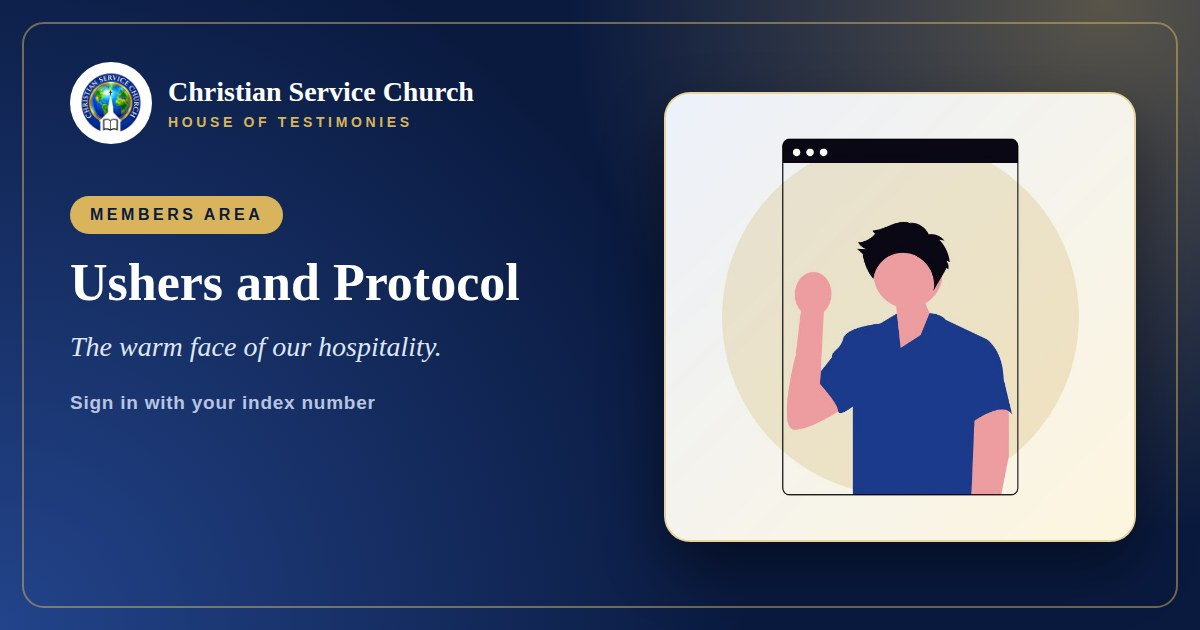
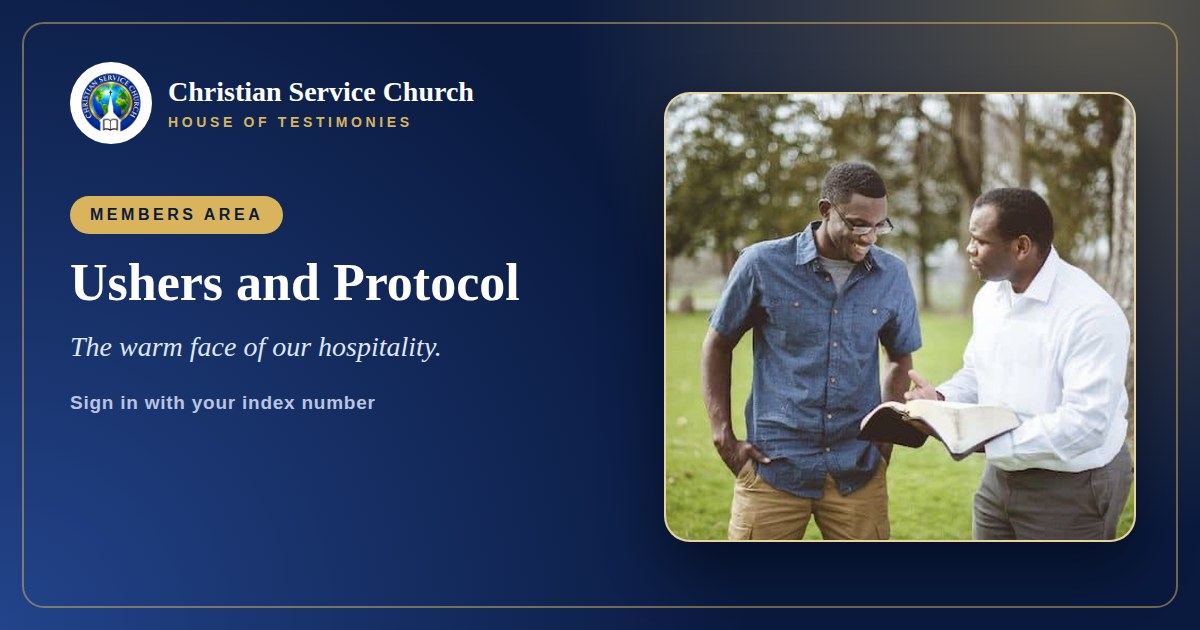
Ministries: evangelism and ushers photos, cleaner Learn more links, refreshed previews (#36)
Claude-Session: https://claude.ai/code/session_01UuPTNQzAJn2GeGrexUshJU

Changed region(s): [[0.555, 0.1508, 0.9558, 0.8746]]

diff --git a/js/supabase-public.js b/js/supabase-public.js
@@ -430,13 +430,13 @@
       body: 'Loud worship, real talk and friendships that last. Vibrant Youth is where teens and young adults find purpose, ask the hard questions and discover that following Jesus is the boldest adventure there is. Come as you are. Leave on fire.' },
     { match: /prayer/i, title: 'Prayer Department', image: 'assets/ministries/prayer-department-art.jpg',
       body: 'The engine room of the church. Our intercessors stand in the gap for every family, every service and the nation, believing God for breakthroughs, healing and answered prayers. If you need someone to pray with you, this is your family.' },
-    { match: /usher|protocol/i, title: 'Ushers and Protocol', image: 'assets/ministries/ushers-and-protocol-art.jpg',
+    { match: /usher|protocol/i, title: 'Ushers and Protocol', image: 'assets/ministries/ushers-photo.jpg',
       body: 'The first smile you see and the last goodbye you hear. Our ushers welcome every guest, keep every service in order and make sure everyone finds a seat and a home. Serving with excellence is how we say, you are welcome here.' },
     { match: /choir|ezekiel/i, title: 'Ezekiel Choir', image: 'assets/ministries/ezekiel-choir-photo.jpg',
       body: 'Voices lifted, hearts surrendered. The Ezekiel Choir leads the church into the presence of God with rich harmony, anointed songs and excellence, every Sunday and at every special service. Worship is not a performance here. It is an offering.' },
     { match: /media/i, title: 'Media Ministry', image: 'assets/ministries/media-ministry-photo.jpg',
       body: 'We carry the message further than these walls. From cameras and sound to live streaming, photos and graphics, our creative team captures every moment so that someone watching from anywhere can feel at home. Behind every screen is someone serving with a smile.' },
-    { match: /evangel/i, title: 'Evangelism Team', image: 'assets/ministries/evangelism-team-art.jpg',
+    { match: /evangel/i, title: 'Evangelism Team', image: 'assets/ministries/evangelism-photo.jpg',
       body: 'Taking the Gospel to every street. Our evangelists share the Good News through outreach, home visits and everyday conversations, leading souls to Christ and walking with them until they feel at home in God\'s family. Souls are the heartbeat of this church.' },
     { match: /virtuous|women/i, title: 'Virtuous Women of Destiny', image: 'assets/ministries/virtuous-women-photo.jpg',
       body: 'Women of grace, strength and purpose. Virtuous Women of Destiny gathers the women of the church to pray, learn the Word, encourage one another and step boldly into everything God has prepared for them. Come and be refreshed, restored and sent.' }
@@ -459,6 +459,9 @@
 
   const ministryKey = (title) => /virtuous|women/i.test(title) ? 'virtuous-women' : /child/i.test(title) ? 'children' : String(title || '').toLowerCase().replace(/[^a-z0-9]+/g, '-').replace(/^-+|-+$/g, '');
 
+  // A link typed as https://contact.html is really the church's own contact page
+  const cleanLink = (link) => String(link || '').trim().replace(/^https?:\/\/(www\.)?(contact\.html)$/i, '$2');
+
   function renderMinistries(rawItems) {
     const mount = document.querySelector('[data-supabase-ministries]');
     if (!mount) return;
@@ -471,7 +474,7 @@
       return `
       <article class="ministry-card${art ? ' ministry-card--art' : ''} reveal" data-delay="${(index % 2) + 1}" id="ministry-${esc(ministryKey(item.title))}">
         <div class="ministry-card__media"${media}></div>
-        <div class="ministry-card__body"><h3 class="ministry-card__title">${esc(item.title)}</h3><p class="ministry-card__desc">${esc(item.body || '')}</p>${ministrySite(item.title) ? `<a href="https://${ministrySite(item.title)}.christianservicechurch.org/" class="ministry-card__link">Learn more</a>` : (item.link ? `<a href="${esc(item.link)}" class="ministry-card__link">Learn More</a>` : '')}</div>
+        <div class="ministry-card__body"><h3 class="ministry-card__title">${esc(item.title)}</h3><p class="ministry-card__desc">${esc(item.body || '')}</p>${ministrySite(item.title) ? `<a href="https://${ministrySite(item.title)}.christianservicechurch.org/" class="ministry-card__link">Learn more</a>` : (cleanLink(item.link) ? `<a href="${esc(cleanLink(item.link))}" class="ministry-card__link">Learn more</a>` : '')}</div>
       </article>`;
     }).join('');
     const focus = document.body && document.body.dataset.focus;

diff --git a/csc-admin/admin.html b/csc-admin/admin.html
@@ -1563,10 +1563,10 @@ const CORE_MINISTRY_SEED = [
   { re: /child/i, title: "Children's Ministry", image: '/assets/ministries/children-photo.jpg', body: 'Where little hearts meet a big God. Through Bible stories, songs, games and loving teachers, our children learn that Jesus is real, that they are loved and that they were made on purpose. We are raising the next generation of believers, one joyful Sunday at a time.' },
   { re: /youth|vibrant/i, title: 'Vibrant Youth', image: '/assets/ministries/vibrant-youth-photo.jpg', body: 'Loud worship, real talk and friendships that last. Vibrant Youth is where teens and young adults find purpose, ask the hard questions and discover that following Jesus is the boldest adventure there is. Come as you are. Leave on fire.' },
   { re: /prayer/i, title: 'Prayer Department', image: '/assets/ministries/prayer-department-art.jpg', body: 'The engine room of the church. Our intercessors stand in the gap for every family, every service and the nation, believing God for breakthroughs, healing and answered prayers. If you need someone to pray with you, this is your family.' },
-  { re: /usher|protocol/i, title: 'Ushers and Protocol', image: '/assets/ministries/ushers-and-protocol-art.jpg', body: 'The first smile you see and the last goodbye you hear. Our ushers welcome every guest, keep every service in order and make sure everyone finds a seat and a home. Serving with excellence is how we say, you are welcome here.' },
+  { re: /usher|protocol/i, title: 'Ushers and Protocol', image: '/assets/ministries/ushers-photo.jpg', body: 'The first smile you see and the last goodbye you hear. Our ushers welcome every guest, keep every service in order and make sure everyone finds a seat and a home. Serving with excellence is how we say, you are welcome here.' },
   { re: /choir|ezekiel/i, title: 'Ezekiel Choir', image: '/assets/ministries/ezekiel-choir-photo.jpg', body: 'Voices lifted, hearts surrendered. The Ezekiel Choir leads the church into the presence of God with rich harmony, anointed songs and excellence, every Sunday and at every special service. Worship is not a performance here. It is an offering.' },
   { re: /media/i, title: 'Media Ministry', image: '/assets/ministries/media-ministry-photo.jpg', body: 'We carry the message further than these walls. From cameras and sound to live streaming, photos and graphics, our creative team captures every moment so that someone watching from anywhere can feel at home. Behind every screen is someone serving with a smile.' },
-  { re: /evangel/i, title: 'Evangelism Team', image: '/assets/ministries/evangelism-team-art.jpg', body: 'Taking the Gospel to every street. Our evangelists share the Good News through outreach, home visits and everyday conversations, leading souls to Christ and walking with them until they feel at home in God\'s family. Souls are the heartbeat of this church.' },
+  { re: /evangel/i, title: 'Evangelism Team', image: '/assets/ministries/evangelism-photo.jpg', body: 'Taking the Gospel to every street. Our evangelists share the Good News through outreach, home visits and everyday conversations, leading souls to Christ and walking with them until they feel at home in God\'s family. Souls are the heartbeat of this church.' },
   { re: /virtuous|women/i, title: 'Virtuous Women of Destiny', image: '/assets/ministries/virtuous-women-photo.jpg', body: "Women of grace, strength and purpose. Virtuous Women of Destiny gathers the women of the church to pray, learn the Word, encourage one another and step boldly into everything God has prepared for them. Come and be refreshed, restored and sent." }
 ];
 async function seedCoreMinistries() {

diff --git a/ministry-choir.html b/ministry-choir.html
@@ -192,7 +192,7 @@ footer a{color:var(--gold)}
   'use strict';
   var sb = supabase.createClient('https://uysfgupzlxfhplwqcttp.supabase.co', 'sb_publishable_5T68Teyy88wmJUlckVRneA_Yfh0OKZV', { auth: { persistSession: false, autoRefreshToken: false } });
   var NAMES = { mediateam: 'Media Team', youth: 'Vibrant Youth', prayer: 'Prayer Department', ushers: 'Ushers and Protocol', choir: 'Ezekiel Choir', evangelism: 'Evangelism Team' };
-  var ART = { mediateam: '/assets/ministries/media-ministry-photo.jpg', youth: '/assets/ministries/vibrant-youth-photo.jpg', prayer: '/assets/ministries/prayer-department-art.jpg', ushers: '/assets/ministries/ushers-and-protocol-art.jpg', choir: '/assets/ministries/ezekiel-choir-photo.jpg', evangelism: '/assets/ministries/evangelism-team-art.jpg' };
+  var ART = { mediateam: '/assets/ministries/media-ministry-photo.jpg', youth: '/assets/ministries/vibrant-youth-photo.jpg', prayer: '/assets/ministries/prayer-department-art.jpg', ushers: '/assets/ministries/ushers-photo.jpg', choir: '/assets/ministries/ezekiel-choir-photo.jpg', evangelism: '/assets/ministries/evangelism-photo.jpg' };
   var I = {
     home: '<path d="M3 10.5 12 3l9 7.5"/><path d="M5 9.5V21h14V9.5"/><path d="M10 21v-6h4v6"/>',
     news: '<path d="M4 5h16v11H8l-4 4z"/>',

diff --git a/ministry-evangelism.html b/ministry-evangelism.html
@@ -192,7 +192,7 @@ footer a{color:var(--gold)}
   'use strict';
   var sb = supabase.createClient('https://uysfgupzlxfhplwqcttp.supabase.co', 'sb_publishable_5T68Teyy88wmJUlckVRneA_Yfh0OKZV', { auth: { persistSession: false, autoRefreshToken: false } });
   var NAMES = { mediateam: 'Media Team', youth: 'Vibrant Youth', prayer: 'Prayer Department', ushers: 'Ushers and Protocol', choir: 'Ezekiel Choir', evangelism: 'Evangelism Team' };
-  var ART = { mediateam: '/assets/ministries/media-ministry-photo.jpg', youth: '/assets/ministries/vibrant-youth-photo.jpg', prayer: '/assets/ministries/prayer-department-art.jpg', ushers: '/assets/ministries/ushers-and-protocol-art.jpg', choir: '/assets/ministries/ezekiel-choir-photo.jpg', evangelism: '/assets/ministries/evangelism-team-art.jpg' };
+  var ART = { mediateam: '/assets/ministries/media-ministry-photo.jpg', youth: '/assets/ministries/vibrant-youth-photo.jpg', prayer: '/assets/ministries/prayer-department-art.jpg', ushers: '/assets/ministries/ushers-photo.jpg', choir: '/assets/ministries/ezekiel-choir-photo.jpg', evangelism: '/assets/ministries/evangelism-photo.jpg' };
   var I = {
     home: '<path d="M3 10.5 12 3l9 7.5"/><path d="M5 9.5V21h14V9.5"/><path d="M10 21v-6h4v6"/>',
     news: '<path d="M4 5h16v11H8l-4 4z"/>',

diff --git a/ministry-mediateam.html b/ministry-mediateam.html
@@ -192,7 +192,7 @@ footer a{color:var(--gold)}
   'use strict';
   var sb = supabase.createClient('https://uysfgupzlxfhplwqcttp.supabase.co', 'sb_publishable_5T68Teyy88wmJUlckVRneA_Yfh0OKZV', { auth: { persistSession: false, autoRefreshToken: false } });
   var NAMES = { mediateam: 'Media Team', youth: 'Vibrant Youth', prayer: 'Prayer Department', ushers: 'Ushers and Protocol', choir: 'Ezekiel Choir', evangelism: 'Evangelism Team' };
-  var ART = { mediateam: '/assets/ministries/media-ministry-photo.jpg', youth: '/assets/ministries/vibrant-youth-photo.jpg', prayer: '/assets/ministries/prayer-department-art.jpg', ushers: '/assets/ministries/ushers-and-protocol-art.jpg', choir: '/assets/ministries/ezekiel-choir-photo.jpg', evangelism: '/assets/ministries/evangelism-team-art.jpg' };
+  var ART = { mediateam: '/assets/ministries/media-ministry-photo.jpg', youth: '/assets/ministries/vibrant-youth-photo.jpg', prayer: '/assets/ministries/prayer-department-art.jpg', ushers: '/assets/ministries/ushers-photo.jpg', choir: '/assets/ministries/ezekiel-choir-photo.jpg', evangelism: '/assets/ministries/evangelism-photo.jpg' };
   var I = {
     home: '<path d="M3 10.5 12 3l9 7.5"/><path d="M5 9.5V21h14V9.5"/><path d="M10 21v-6h4v6"/>',
     news: '<path d="M4 5h16v11H8l-4 4z"/>',

diff --git a/ministry-prayer.html b/ministry-prayer.html
@@ -192,7 +192,7 @@ footer a{color:var(--gold)}
   'use strict';
   var sb = supabase.createClient('https://uysfgupzlxfhplwqcttp.supabase.co', 'sb_publishable_5T68Teyy88wmJUlckVRneA_Yfh0OKZV', { auth: { persistSession: false, autoRefreshToken: false } });
   var NAMES = { mediateam: 'Media Team', youth: 'Vibrant Youth', prayer: 'Prayer Department', ushers: 'Ushers and Protocol', choir: 'Ezekiel Choir', evangelism: 'Evangelism Team' };
-  var ART = { mediateam: '/assets/ministries/media-ministry-photo.jpg', youth: '/assets/ministries/vibrant-youth-photo.jpg', prayer: '/assets/ministries/prayer-department-art.jpg', ushers: '/assets/ministries/ushers-and-protocol-art.jpg', choir: '/assets/ministries/ezekiel-choir-photo.jpg', evangelism: '/assets/ministries/evangelism-team-art.jpg' };
+  var ART = { mediateam: '/assets/ministries/media-ministry-photo.jpg', youth: '/assets/ministries/vibrant-youth-photo.jpg', prayer: '/assets/ministries/prayer-department-art.jpg', ushers: '/assets/ministries/ushers-photo.jpg', choir: '/assets/ministries/ezekiel-choir-photo.jpg', evangelism: '/assets/ministries/evangelism-photo.jpg' };
   var I = {
     home: '<path d="M3 10.5 12 3l9 7.5"/><path d="M5 9.5V21h14V9.5"/><path d="M10 21v-6h4v6"/>',
     news: '<path d="M4 5h16v11H8l-4 4z"/>',

diff --git a/ministry-ushers.html b/ministry-ushers.html
@@ -192,7 +192,7 @@ footer a{color:var(--gold)}
   'use strict';
   var sb = supabase.createClient('https://uysfgupzlxfhplwqcttp.supabase.co', 'sb_publishable_5T68Teyy88wmJUlckVRneA_Yfh0OKZV', { auth: { persistSession: false, autoRefreshToken: false } });
   var NAMES = { mediateam: 'Media Team', youth: 'Vibrant Youth', prayer: 'Prayer Department', ushers: 'Ushers and Protocol', choir: 'Ezekiel Choir', evangelism: 'Evangelism Team' };
-  var ART = { mediateam: '/assets/ministries/media-ministry-photo.jpg', youth: '/assets/ministries/vibrant-youth-photo.jpg', prayer: '/assets/ministries/prayer-department-art.jpg', ushers: '/assets/ministries/ushers-and-protocol-art.jpg', choir: '/assets/ministries/ezekiel-choir-photo.jpg', evangelism: '/assets/ministries/evangelism-team-art.jpg' };
+  var ART = { mediateam: '/assets/ministries/media-ministry-photo.jpg', youth: '/assets/ministries/vibrant-youth-photo.jpg', prayer: '/assets/ministries/prayer-department-art.jpg', ushers: '/assets/ministries/ushers-photo.jpg', choir: '/assets/ministries/ezekiel-choir-photo.jpg', evangelism: '/assets/ministries/evangelism-photo.jpg' };
   var I = {
     home: '<path d="M3 10.5 12 3l9 7.5"/><path d="M5 9.5V21h14V9.5"/><path d="M10 21v-6h4v6"/>',
     news: '<path d="M4 5h16v11H8l-4 4z"/>',

diff --git a/ministry-youth.html b/ministry-youth.html
@@ -192,7 +192,7 @@ footer a{color:var(--gold)}
   'use strict';
   var sb = supabase.createClient('https://uysfgupzlxfhplwqcttp.supabase.co', 'sb_publishable_5T68Teyy88wmJUlckVRneA_Yfh0OKZV', { auth: { persistSession: false, autoRefreshToken: false } });
   var NAMES = { mediateam: 'Media Team', youth: 'Vibrant Youth', prayer: 'Prayer Department', ushers: 'Ushers and Protocol', choir: 'Ezekiel Choir', evangelism: 'Evangelism Team' };
-  var ART = { mediateam: '/assets/ministries/media-ministry-photo.jpg', youth: '/assets/ministries/vibrant-youth-photo.jpg', prayer: '/assets/ministries/prayer-department-art.jpg', ushers: '/assets/ministries/ushers-and-protocol-art.jpg', choir: '/assets/ministries/ezekiel-choir-photo.jpg', evangelism: '/assets/ministries/evangelism-team-art.jpg' };
+  var ART = { mediateam: '/assets/ministries/media-ministry-photo.jpg', youth: '/assets/ministries/vibrant-youth-photo.jpg', prayer: '/assets/ministries/prayer-department-art.jpg', ushers: '/assets/ministries/ushers-photo.jpg', choir: '/assets/ministries/ezekiel-choir-photo.jpg', evangelism: '/assets/ministries/evangelism-photo.jpg' };
   var I = {
     home: '<path d="M3 10.5 12 3l9 7.5"/><path d="M5 9.5V21h14V9.5"/><path d="M10 21v-6h4v6"/>',
     news: '<path d="M4 5h16v11H8l-4 4z"/>',

diff --git a/ministry.html b/ministry.html
@@ -180,7 +180,7 @@ footer a{color:var(--gold)}
   'use strict';
   var sb = supabase.createClient('https://uysfgupzlxfhplwqcttp.supabase.co', 'sb_publishable_5T68Teyy88wmJUlckVRneA_Yfh0OKZV', { auth: { persistSession: false, autoRefreshToken: false } });
   var NAMES = { mediateam: 'Media Team', youth: 'Vibrant Youth', prayer: 'Prayer Department', ushers: 'Ushers and Protocol', choir: 'Ezekiel Choir', evangelism: 'Evangelism Team' };
-  var ART = { mediateam: '/assets/ministries/media-ministry-photo.jpg', youth: '/assets/ministries/vibrant-youth-photo.jpg', prayer: '/assets/ministries/prayer-department-art.jpg', ushers: '/assets/ministries/ushers-and-protocol-art.jpg', choir: '/assets/ministries/ezekiel-choir-photo.jpg', evangelism: '/assets/ministries/evangelism-team-art.jpg' };
+  var ART = { mediateam: '/assets/ministries/media-ministry-photo.jpg', youth: '/assets/ministries/vibrant-youth-photo.jpg', prayer: '/assets/ministries/prayer-department-art.jpg', ushers: '/assets/ministries/ushers-photo.jpg', choir: '/assets/ministries/ezekiel-choir-photo.jpg', evangelism: '/assets/ministries/evangelism-photo.jpg' };
   var I = {
     home: '<path d="M3 10.5 12 3l9 7.5"/><path d="M5 9.5V21h14V9.5"/><path d="M10 21v-6h4v6"/>',
     news: '<path d="M4 5h16v11H8l-4 4z"/>',

diff --git a/index.html b/index.html
@@ -714,7 +714,7 @@
   <div data-footer-mount><noscript><footer class="footer"><div class="container"><strong>Christian Service Church</strong><p>Jungle Avenue Road, East Legon, Accra, Ghana. Call <a href="tel:+233551172156">0551172156</a> or email <a href="mailto:info@christianservicechurch.org">info@christianservicechurch.org</a>.</p><p>Sunday worship: 9:00 AM to 12:00 noon.</p><p>&copy; 2026 Christian Service Church. All rights reserved.</p><p>Designed by <a href="https://baidenz-studioz-web.vercel.app/login" target="_blank" rel="noopener noreferrer">Baidenz Studioz</a></p><p><a href="terms-of-service.html">Terms of Service</a> &middot; <a href="privacy-policy.html">Privacy Policy</a></p></div></footer></noscript></div>
 
   <script src="js/navigation.js?v=20261026"></script>
-  <script src="js/supabase-public.js?v=20261033"></script>
+  <script src="js/supabase-public.js?v=20261034"></script>
   <script src="js/app.js?v=20261029"></script>
 </body>
 </html>

diff --git a/about.html b/about.html
@@ -542,7 +542,7 @@
   <div data-footer-mount><noscript><footer class="footer"><div class="container"><strong>Christian Service Church</strong><p>Jungle Avenue Road, East Legon, Accra, Ghana. Call <a href="tel:+233551172156">0551172156</a> or email <a href="mailto:info@christianservicechurch.org">info@christianservicechurch.org</a>.</p><p>Sunday worship: 9:00 AM to 12:00 noon.</p></div></footer></noscript></div>
 
   <script src="js/navigation.js?v=20261026"></script>
-  <script src="js/supabase-public.js?v=20261033"></script>
+  <script src="js/supabase-public.js?v=20261034"></script>
   <script src="js/app.js?v=20261029"></script>
 </body>
 </html>

diff --git a/announcements.html b/announcements.html
@@ -134,7 +134,7 @@
   <div data-footer-mount><noscript><footer class="footer"><div class="container"><strong>Christian Service Church</strong><p>Jungle Avenue Road, East Legon, Accra, Ghana. Call <a href="tel:+233551172156">0551172156</a> or email <a href="mailto:info@christianservicechurch.org">info@christianservicechurch.org</a>.</p><p>Sunday worship: 9:00 AM to 12:00 noon.</p></div></footer></noscript></div>
   <script src="js/navigation.js?v=20261026"></script>
 
-  <script src="js/supabase-public.js?v=20261033"></script>
+  <script src="js/supabase-public.js?v=20261034"></script>
   <script src="js/app.js?v=20261029"></script>
 </body>
 </html>
